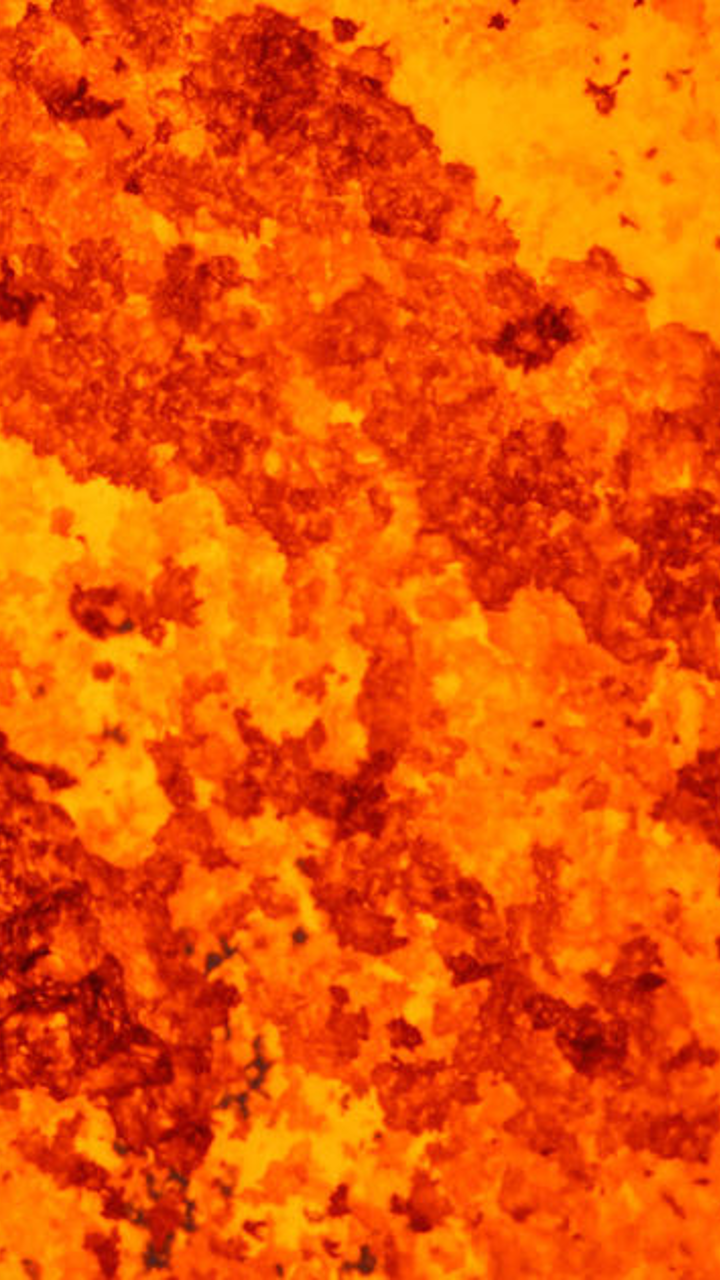
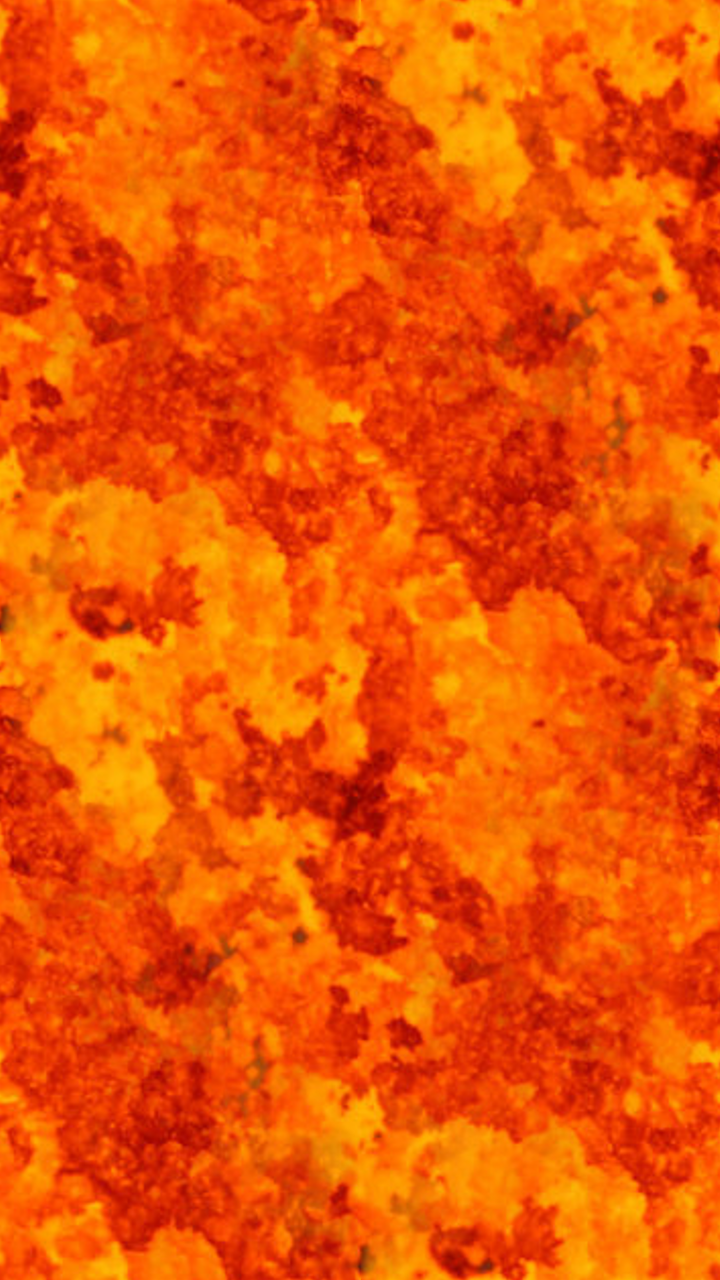
Debugging info for fire light show

diff --git a/scriptlets/lights/backbox/fire.py b/scriptlets/lights/backbox/fire.py
@@ -3,7 +3,6 @@ from mpf.core.rgb_color import RGBColor
 from .dynamic_backbox_show import DynamicBackBoxShow
 
 class Fire(DynamicBackBoxShow):
-    FIRE_COLOR = RGBColor([80, 35, 0])
     OFF_COLOR = RGBColor([0, 0, 0])
 
     def __init__(self, machine):
@@ -11,13 +10,23 @@ class Fire(DynamicBackBoxShow):
 
     def animate(self):
         super().animate()
+
+        if self.frame > 1:
+            return
+
         for strip in self.strips:
+            highlight = randint(0, 30)
+            introduced_color = RGBColor([intensity, highlight, highlight / 2])
+            self.info_log('WTF: Introduced color for frame %s, index 0: %s', self.frame, introduced_color)
+            strip.set_color(0, introduced_color)
             for light_index in range(1, strip.size - 1):
-                strip.set_color(light_index + 1, self._average_colors(strip.get_color(light_index),strip.get_color(light_index + 1)))
+                averaged_color = self._average_colors(strip.get_color(light_index), strip.get_color(light_index + 1))
+                self.info_log('WTF: Averaged colors for frame %s, index %s: %s', self.frame, light_index, averaged_color)
+                strip.set_color(light_index + 1, averaged_color)
             intensity = randint(0, 120)
-            highlight = randint(0, 60)
-            strip.set_color(0, RGBColor([intensity, highlight, highlight]))
-            strip.set_color(strip.size - 1, self._average_colors(strip.get_color(strip.size - 1), self.OFF_COLOR))
+            last_color = self._average_colors(strip.get_color(strip.size - 1), self.OFF_COLOR)
+            self.info_log('WTF: Last color for frame %s, index %s: %s', self.frame, strip.size - 1, last_color)
+            strip.set_color(strip.size - 1, last_color)
 
     def _average_colors(self, a, b):
         r1, g1, b1 = a.rgb
